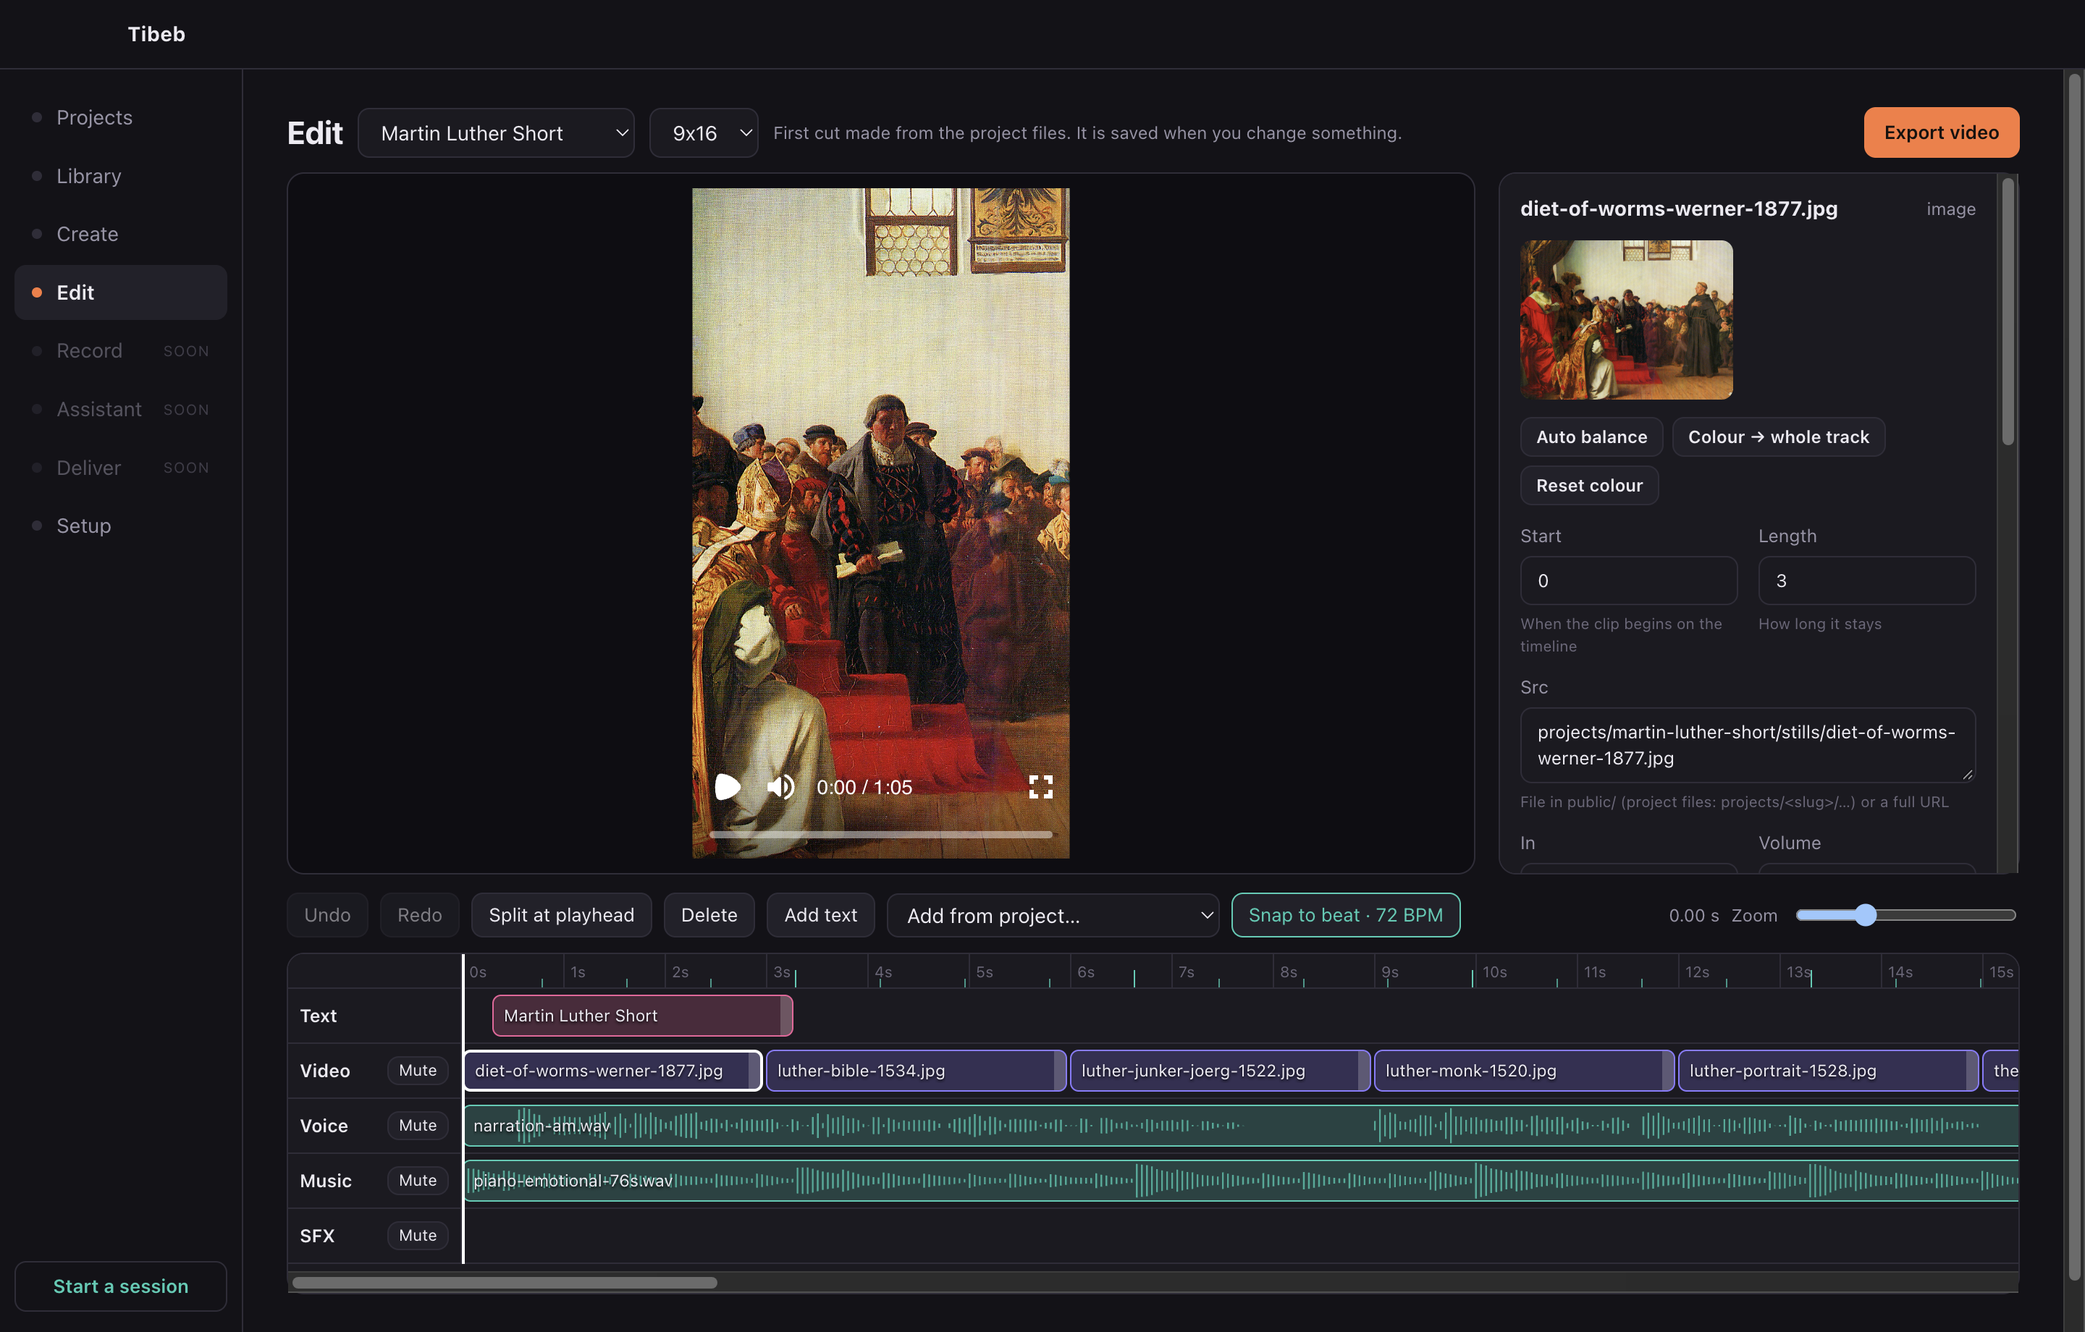
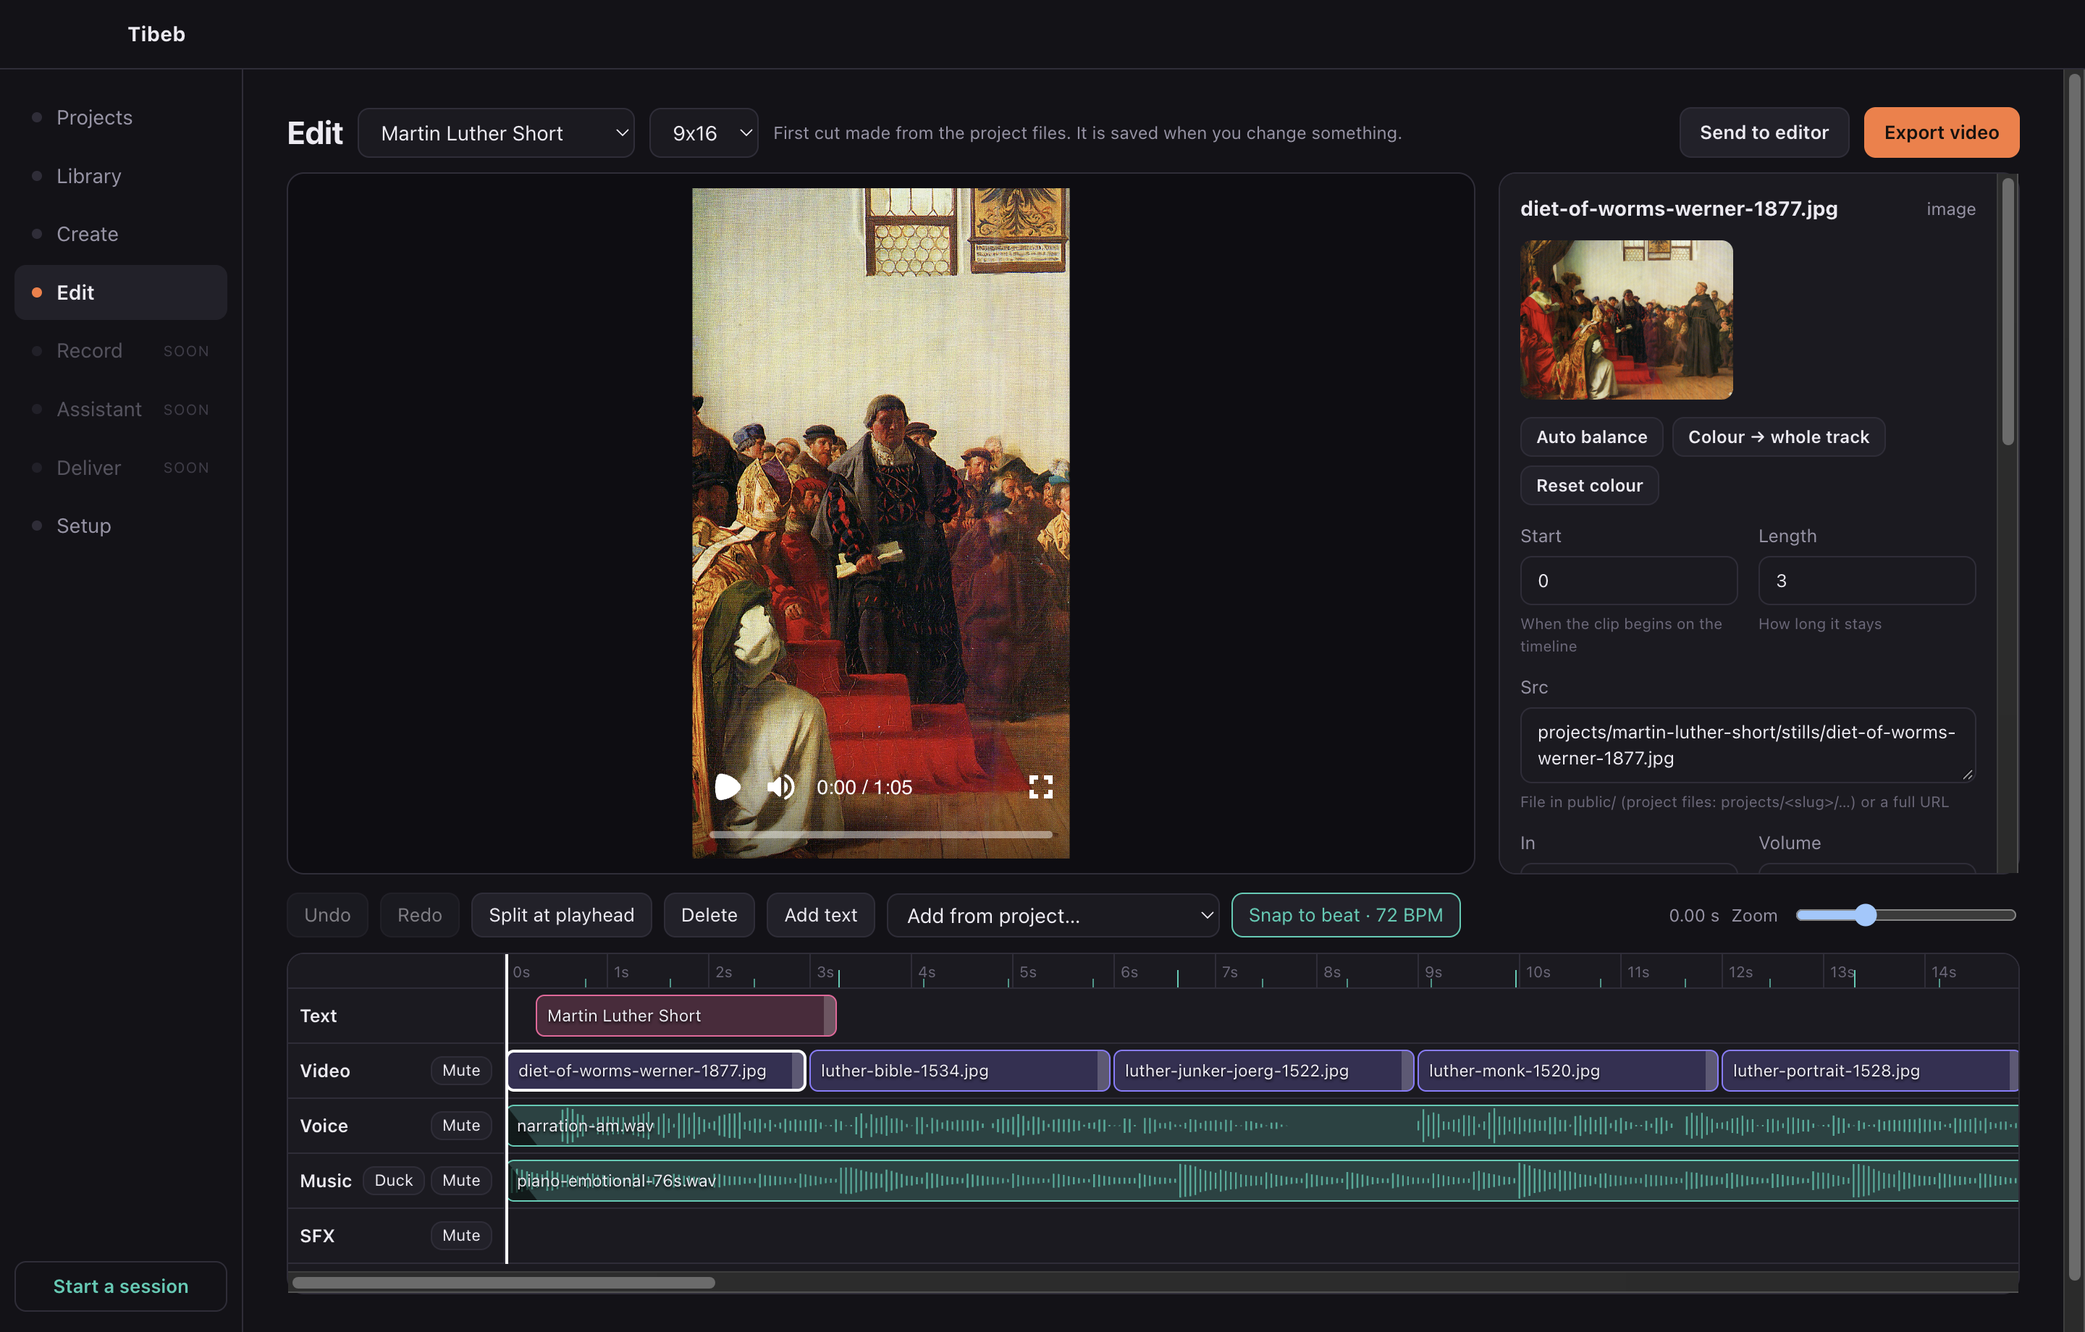
feat: music ducking, fade and duck markers on the timeline, Send to editor (layered hand-off)

diff --git a/src/renderer/screens/Edit.tsx b/src/renderer/screens/Edit.tsx
@@ -221,6 +221,30 @@ const Edit = ({initial}: {initial: string}) => {
 		setSel({track, clip: c.id});
 		drag.current = {track, clip: c.id, mode, x0: e.clientX, start0: c.start, length0: c.length, before: doc};
 	};
+	/** Lower a music track while the voice track is speaking: speech is found from the voice clips' waveforms. */
+	const toggleDuck = async (trackId: string) => {
+		if (!doc) return;
+		const track = doc.tracks.find((t) => t.id === trackId);
+		if (track?.duck) return change((d) => ({...d, tracks: d.tracks.map((t) => (t.id === trackId ? (({duck: _d, ...rest}) => rest)(t) as EditTrack : t))}));
+		const voice = doc.tracks.find((t) => t.id === 'voice' && t.clips.length) ?? doc.tracks.find((t) => t.kind === 'audio' && t.id !== trackId && t.clips.length);
+		if (!voice) return setStatus('Add a voice clip first: ducking lowers the music while the voice speaks.');
+		const ranges: [number, number][] = [];
+		for (const c of voice.clips) {
+			const p = await loadPeaks(project, String(c.src), false);
+			const from = Number(c.in ?? 0);
+			let open: number | null = null;
+			p.peaks.slice(Math.floor(from * p.per_second), Math.ceil((from + c.length) * p.per_second)).forEach((v, i, arr) => {
+				const t = c.start + i / p.per_second;
+				if (v > 0.08 && open === null) open = t;
+				if ((v <= 0.08 || i === arr.length - 1) && open !== null && (i === arr.length - 1 || arr.slice(i, i + Math.ceil(p.per_second * 0.6)).every((x) => x <= 0.08))) {
+					ranges.push([Math.round(open * 100) / 100, Math.round(t * 100) / 100]);
+					open = null;
+				}
+			});
+		}
+		change((d) => ({...d, tracks: d.tracks.map((t) => (t.id === trackId ? {...t, duck: {under: voice.id, amount: 0.3, ...(ranges.length ? {ranges: ranges.slice(0, 400)} : {})}} : t))}));
+		setStatus(ranges.length ? `Music dips to 30 % in ${ranges.length} spoken stretch${ranges.length === 1 ? '' : 'es'}.` : 'Music dips under the voice clips.');
+	};
 	const GRADE = ['look', 'lookStrength', 'exposure', 'contrast', 'saturation', 'temperature', 'tint', 'balance'];
 	const [gradeNote, setGradeNote] = useState('');
 	const autoBalance = async () => {
@@ -239,6 +263,21 @@ const Edit = ({initial}: {initial: string}) => {
 		: {...(Object.fromEntries(Object.entries(c).filter(([k]) => !GRADE.includes(k))) as EditClip), ...Object.fromEntries(GRADE.filter((k) => k !== 'balance' && selected[k] !== undefined).map((k) => [k, selected[k]]))}))}))}));
 	const seek = (t: number) => player.current?.seekTo(Math.max(0, Math.round(t * FPS)));
 
+	const [handing, setHanding] = useState(false);
+	const handoffNow = async () => {
+		if (!doc) return;
+		setHanding(true);
+		setStatus('Preparing layers for your editor: text overlays are being rendered…');
+		try {
+			await window.tibeb.saveEdit(project, doc);
+			const r = await window.tibeb.handoff(project, format);
+			setStatus(`Hand-off ready: ${r.files} files in the project's handoff folder (opened in Finder).${r.notes.length ? ' ' + r.notes[0] : ''}`);
+		} catch (e) {
+			setProblem(clean(e));
+		} finally {
+			setHanding(false);
+		}
+	};
 	const exportNow = async () => {
 		if (!doc) return;
 		setRender({busy: true, percent: 0, file: ''});
@@ -275,7 +314,8 @@ const Edit = ({initial}: {initial: string}) => {
 				</div>
 				<div className="row">
 					{render.file ? <button onClick={() => void window.tibeb.reveal(project, 'exports')}>Show export</button> : null}
-					<button className="primary" disabled={render.busy || Boolean(problem)} onClick={() => void exportNow()}>{render.busy ? `Exporting ${render.percent}%` : 'Export video'}</button>
+					<button disabled={handing || render.busy || Boolean(problem)} onClick={() => void handoffNow()} title="Every clip as its own file, plus a timeline file and instructions, to keep editing in CapCut or Resolve">{handing ? 'Preparing…' : 'Send to editor'}</button>
+					<button className="primary" disabled={render.busy || handing || Boolean(problem)} onClick={() => void exportNow()}>{render.busy ? `Exporting ${render.percent}%` : 'Export video'}</button>
 				</div>
 			</div>
 			{problem ? <p className="error" role="alert">{problem}</p> : null}
@@ -329,8 +369,8 @@ const Edit = ({initial}: {initial: string}) => {
 				<label className="dim small row">Zoom<input type="range" min={20} max={220} value={pps} onChange={(e) => setPps(Number(e.target.value))} /></label>
 			</div>
 			<div className="tl" onPointerMove={onPointerMove} onPointerUp={onPointerUp} onPointerCancel={onPointerUp}>
-				<div className="lanes" style={{width: width + 120}}>
-					<div className="lane ruler" onPointerDown={(e) => seek((e.clientX - e.currentTarget.getBoundingClientRect().left - 120) / pps)}>
+				<div className="lanes" style={{width: width + 150}}>
+					<div className="lane ruler" onPointerDown={(e) => seek((e.clientX - e.currentTarget.getBoundingClientRect().left - 150) / pps)}>
 						<div className="tname" />
 						<div className="track">{Array.from({length: Math.ceil(doc.duration) + 1}, (_, i) => <span key={i} className="tick" style={{left: i * pps}}>{i}s</span>)}
 							{pps >= 40 ? beatInfo.times.map((b) => <i key={b} className={`beat${beatInfo.down.some((x) => Math.abs(x - b) < 0.02) ? ' down' : ''}`} style={{left: b * pps}} />) : beatInfo.down.map((b) => <i key={b} className="beat down" style={{left: b * pps}} />)}</div>
@@ -338,6 +378,7 @@ const Edit = ({initial}: {initial: string}) => {
 					{doc.tracks.map((t) => (
 						<div key={t.id} className="lane">
 							<div className="tname"><span>{t.name}</span>
+								{t.kind === 'audio' && t.id !== 'voice' && t.clips.length ? <button className="small" aria-pressed={Boolean(t.duck)} title="Lower this track while the voice speaks" onClick={() => void toggleDuck(t.id)}>Duck</button> : null}
 								{t.kind !== 'text' ? <button className="small" aria-pressed={Boolean(t.muted)} onClick={() => change((d) => ({...d, tracks: d.tracks.map((x) => (x.id === t.id ? {...x, muted: !x.muted} : x))}))}>{t.muted ? 'Muted' : 'Mute'}</button> : null}</div>
 							<div className="track" onPointerDown={() => setSel(null)}>
 								{t.clips.map((c) => (
@@ -345,6 +386,9 @@ const Edit = ({initial}: {initial: string}) => {
 										style={{left: c.start * pps, width: Math.max(8, c.length * pps - 2), background: `${COLORS[t.kind]}3a`, borderColor: COLORS[t.kind]}}
 										onPointerDown={(e) => startDrag(e, t.id, c, 'move')}>
 										{t.kind === 'audio' || c.kind === 'video' ? <Wave project={project} clip={c} color={COLORS[t.kind]} px={c.length * pps} /> : null}
+										{c.kind === 'audio' && Number(c.fadeIn) > 0 ? <i className="fade in" style={{width: Math.min(c.length, Number(c.fadeIn)) * pps}} /> : null}
+										{c.kind === 'audio' && Number(c.fadeOut) > 0 ? <i className="fade out" style={{width: Math.min(c.length, Number(c.fadeOut)) * pps}} /> : null}
+										{t.duck ? (t.duck.ranges ?? []).filter(([a, b]) => b > c.start && a < c.start + c.length).map(([a, b]) => <i key={a} className="ducked" style={{left: (Math.max(a, c.start) - c.start) * pps, width: (Math.min(b, c.start + c.length) - Math.max(a, c.start)) * pps}} />) : null}
 										<span>{label(c)}</span>
 										<i className="grip" onPointerDown={(e) => startDrag(e, t.id, c, 'trim')} />
 									</div>
@@ -352,7 +396,7 @@ const Edit = ({initial}: {initial: string}) => {
 							</div>
 						</div>
 					))}
-					<div className="playhead" style={{left: 120 + now * pps}} />
+					<div className="playhead" style={{left: 150 + now * pps}} />
 				</div>
 			</div>
 		</section>

diff --git a/src/main/main.ts b/src/main/main.ts
@@ -106,6 +106,12 @@ const registerIpc = () => {
 		await engine(['intake', name as string]).catch(() => undefined);
 		return done;
 	});
+	ipcMain.handle('edit:handoff', async (_e, name: unknown, format: unknown) => {
+		need(isProjectName(name) && (format === '9x16' || format === '16x9'), 'bad request');
+		const res = await engine<{counts: Record<string, number>; notes: string[]; files: number}>(['handoff', name as string, '--format', format as string, '--motion-dir', motionDir()], 3_600_000);
+		void shell.openPath(projectPath(name as string, 'handoff'));
+		return res;
+	});
 	ipcMain.handle('create:templates', () => getTemplates());
 	ipcMain.handle('create:render', async (e, req: unknown) => {
 		const r = req as Partial<RenderRequest>;
@@ -235,8 +241,11 @@ const editTest = async (win: BrowserWindow, project: string) => {
 			const pk = await window.tibeb.peaks(${JSON.stringify(project)}, doc.tracks[3].clips[0].src, true);
 			doc.tracks[1].clips[0].look = 'golden-hour'; doc.tracks[1].clips[0].balance = bal.balance;
 			await window.tibeb.saveEdit(${JSON.stringify(project)}, doc);
+			doc.tracks[3].duck = {under: 'voice', amount: 0.3};
+			await window.tibeb.saveEdit(${JSON.stringify(project)}, doc);
+			const ho = await window.tibeb.handoff(${JSON.stringify(project)}, '9x16');
 			const done = await window.tibeb.exportEdit(${JSON.stringify(project)}, '9x16', 'edit-test');
-			return 'OK created=' + created + ' reloaded=' + !again.created + ' clips=' + doc.tracks.map((t) => t.id + ':' + t.clips.length).join(',') + ' balance=' + JSON.stringify(bal.balance) + ' peaks=' + pk.peaks.length + ' bpm=' + pk.bpm + ' ' + done.file;
+			return 'OK created=' + created + ' reloaded=' + !again.created + ' clips=' + doc.tracks.map((t) => t.id + ':' + t.clips.length).join(',') + ' handoff=' + JSON.stringify(ho.counts) + ' balance=' + JSON.stringify(bal.balance) + ' peaks=' + pk.peaks.length + ' bpm=' + pk.bpm + ' ' + done.file;
 		} catch (e) { return 'FAILED ' + e.message; }
 	})()`);
 	console.log(result);

diff --git a/src/renderer/styles.css b/src/renderer/styles.css
@@ -132,7 +132,7 @@ button.pad{align-self:flex-start;white-space:normal;text-align:left}
 .lanes{position:relative;min-width:100%}
 .lane{display:flex;height:38px;border-bottom:1px solid var(--line)}
 .lane.ruler{height:24px;position:sticky;top:0;background:var(--panel);z-index:2;cursor:pointer}
-.tname{width:120px;flex-shrink:0;border-right:1px solid var(--line);display:flex;align-items:center;justify-content:space-between;padding:0 8px;font-size:12.5px;font-weight:600;position:sticky;left:0;background:var(--panel);z-index:1}
+.tname{width:150px;flex-shrink:0;border-right:1px solid var(--line);display:flex;align-items:center;justify-content:space-between;padding:0 8px;font-size:12.5px;font-weight:600;position:sticky;left:0;background:var(--panel);z-index:1}
 .tname button{padding:1px 7px;font-size:11px;font-weight:400} .tname button[aria-pressed=true]{color:var(--accent);border-color:var(--accent)}
 .track{position:relative;flex:1}
 .tick{position:absolute;top:0;bottom:0;border-left:1px solid var(--line);padding-left:4px;font-size:10.5px;color:var(--faint);line-height:24px}
@@ -149,3 +149,8 @@ button.pad{align-self:flex-start;white-space:normal;text-align:left}
 .tbar button[aria-pressed=true]{color:var(--teal);border-color:var(--teal)}
 
 .gradebar{display:flex;flex-wrap:wrap;gap:6px;align-items:center}
+
+.tname{gap:4px} .tname span{flex:1;overflow:hidden;text-overflow:ellipsis}
+.fade{position:absolute;top:0;bottom:0;pointer-events:none;background:linear-gradient(to top right,#0009 49%,transparent 51%)}
+.fade.in{left:0} .fade.out{right:0;background:linear-gradient(to top left,#0009 49%,transparent 51%)}
+.ducked{position:absolute;top:55%;bottom:0;background:#0007;border-top:1px dashed #fff8;pointer-events:none}

diff --git a/src/shared.d.ts b/src/shared.d.ts
@@ -29,6 +29,7 @@ interface Window {
 		peaks(project: string, src: string, beats: boolean): Promise<Peaks>;
 		loadEdit(project: string): Promise<{doc: EditDoc; created: boolean; slug: string}>;
 		saveEdit(project: string, doc: EditDoc): Promise<boolean>;
+		handoff(project: string, format: string): Promise<{counts: Record<string, number>; notes: string[]; files: number}>;
 		exportEdit(project: string, format: string, name: string): Promise<{file: string; config: string}>;
 		templates(): Promise<Template[]>;
 		render(req: {project: string; template: string; format: string; name: string; alpha: boolean; props: unknown}): Promise<{file: string; config: string}>;
@@ -43,5 +44,5 @@ interface Window {
 declare module '@motion/*';
 type Peaks = {duration: number; per_second: number; peaks: number[]; bpm?: number; beats?: number[]; downbeats?: number[]};
 type EditClip = {id: string; start: number; length: number; kind: 'video' | 'image' | 'text' | 'audio'; [key: string]: unknown};
-type EditTrack = {id: string; name: string; kind: 'video' | 'text' | 'audio'; muted?: boolean; clips: EditClip[]};
+type EditTrack = {id: string; name: string; kind: 'video' | 'text' | 'audio'; muted?: boolean; duck?: {under: string; amount: number; ranges?: [number, number][]}; clips: EditClip[]};
 type EditDoc = {version: 1; duration: number; background: string; credit?: string; tracks: EditTrack[]};

diff --git a/src/main/preload.ts b/src/main/preload.ts
@@ -18,6 +18,7 @@ contextBridge.exposeInMainWorld('tibeb', {
 	peaks: (project: string, src: string, beats: boolean) => call('media:peaks', project, src, beats),
 	loadEdit: (project: string) => call('edit:load', project),
 	saveEdit: (project: string, doc: unknown) => call('edit:save', project, doc),
+	handoff: (project: string, format: string) => call('edit:handoff', project, format),
 	exportEdit: (project: string, format: string, name: string) => call('edit:export', project, format, name),
 	templates: () => call('create:templates'),
 	render: (req: unknown) => call('create:render', req),

diff --git a/README.md b/README.md
@@ -20,7 +20,7 @@ depending on one.
 | **Find real pictures** | Inside a project: search Wikimedia Commons, see each picture's licence, add it with licence, author and source recorded in the project's `CREDITS.md`. |
 | **Library** | 350 free-to-use assets generated on your machine: sound effects, music, graphics, animated overlays, transitions, backgrounds, textures, looks and open-licensed typefaces. Search, listen, preview, add to a project's kit. |
 | **Create** | 18 video templates (documentary shorts, talking-head scenes, camera-follow maps, routes and graphs, promos, text overlays). Fill in a form (media fields suggest the project's own files, which are linked into the renderer automatically), press Render, the video lands in the project. |
-| **Edit** (first version) | A timeline per project (`edit.json`): video, image, text and audio clips on tracks, with a live preview that uses the same renderer as the export. Drag clips to move them, drag the right edge to trim, split at the playhead, add text or project files, change any property in the inspector, undo/redo, autosave, export. Audio clips show their waveform, the music's beats are marked and edits snap to them. Picture clips take a colour look with a strength, exposure, contrast, saturation, temperature and tint, plus one-click auto balance. |
+| **Edit** (first version) | A timeline per project (`edit.json`): video, image, text and audio clips on tracks, with a live preview that uses the same renderer as the export. Drag clips to move them, drag the right edge to trim, split at the playhead, add text or project files, change any property in the inspector, undo/redo, autosave, export. Audio clips show their waveform, the music's beats are marked and edits snap to them. Picture clips take a colour look with a strength, exposure, contrast, saturation, temperature and tint, plus one-click auto balance. Music can dip automatically while the voice speaks. **Send to editor** exports the edit as layers (cut clips, each text as a transparent overlay, audio stems, looks, an OTIO/FCPXML timeline and a README) to rebuild in CapCut or Resolve. |
 | **Setup** | Checks everything the studio needs and says how to fix what is missing. Choose your editor: DaVinci Resolve, CapCut or none. |
 
 ![Find real pictures](docs/app/project-tools.png)
@@ -71,9 +71,9 @@ assistant session in the workspace.
 | M1 Shell | Projects, Library, Setup | done |
 | M2 Create | template forms, render into a project | first version |
 | M3 Editor | timeline: cut, trim, layers, looks, keyframes | first version (no keyframes yet) |
-| M4 Sound | voice, music and SFX tracks, beats, ducking | waveforms, beats and snapping done; ducking planned |
+| M4 Sound | voice, music and SFX tracks, beats, ducking | waveforms, beats, snapping and ducking done |
 | M5 Assistant | Claude panel working on the same timeline file | planned |
-| M6 Hand-off | layered export, CapCut and Resolve, recording | planned |
+| M6 Hand-off | layered export, CapCut and Resolve, recording | layered export done (timeline files not yet opened in an editor); CapCut project writer and recording planned |
 | M7 Share | first-run setup, signed build, docs | planned |
 
 Details: [PLAN.md](PLAN.md) for the app and [INTERCHANGE.md](INTERCHANGE.md) for keeping AI and Remotion

diff --git a/INTERCHANGE.md b/INTERCHANGE.md
@@ -5,7 +5,9 @@ arrives in an editor as **separate, movable layers on a timeline**, not as one f
 made in the editor can come back. CapCut is the first target; the design is open so Resolve, Premiere,
 Final Cut and tools that do not exist yet plug in the same way.
 
-Status on 2026-11-21: plan only. Facts checked on this Mac are marked ✅, assumptions ❓.
+Status on 2026-11-21: phases I0 and I1 are built (`resolve-assist handoff`, "Send to editor" in the app): layered
+package with OTIO and FCPXML. The timeline files are well-formed but have not been opened in Resolve, Premiere or
+Final Cut yet. The CapCut adapter (C0 onward) is not started. Facts checked on this Mac are marked ✅, assumptions ❓.
 
 ![Interchange](docs/interchange.png)
 
